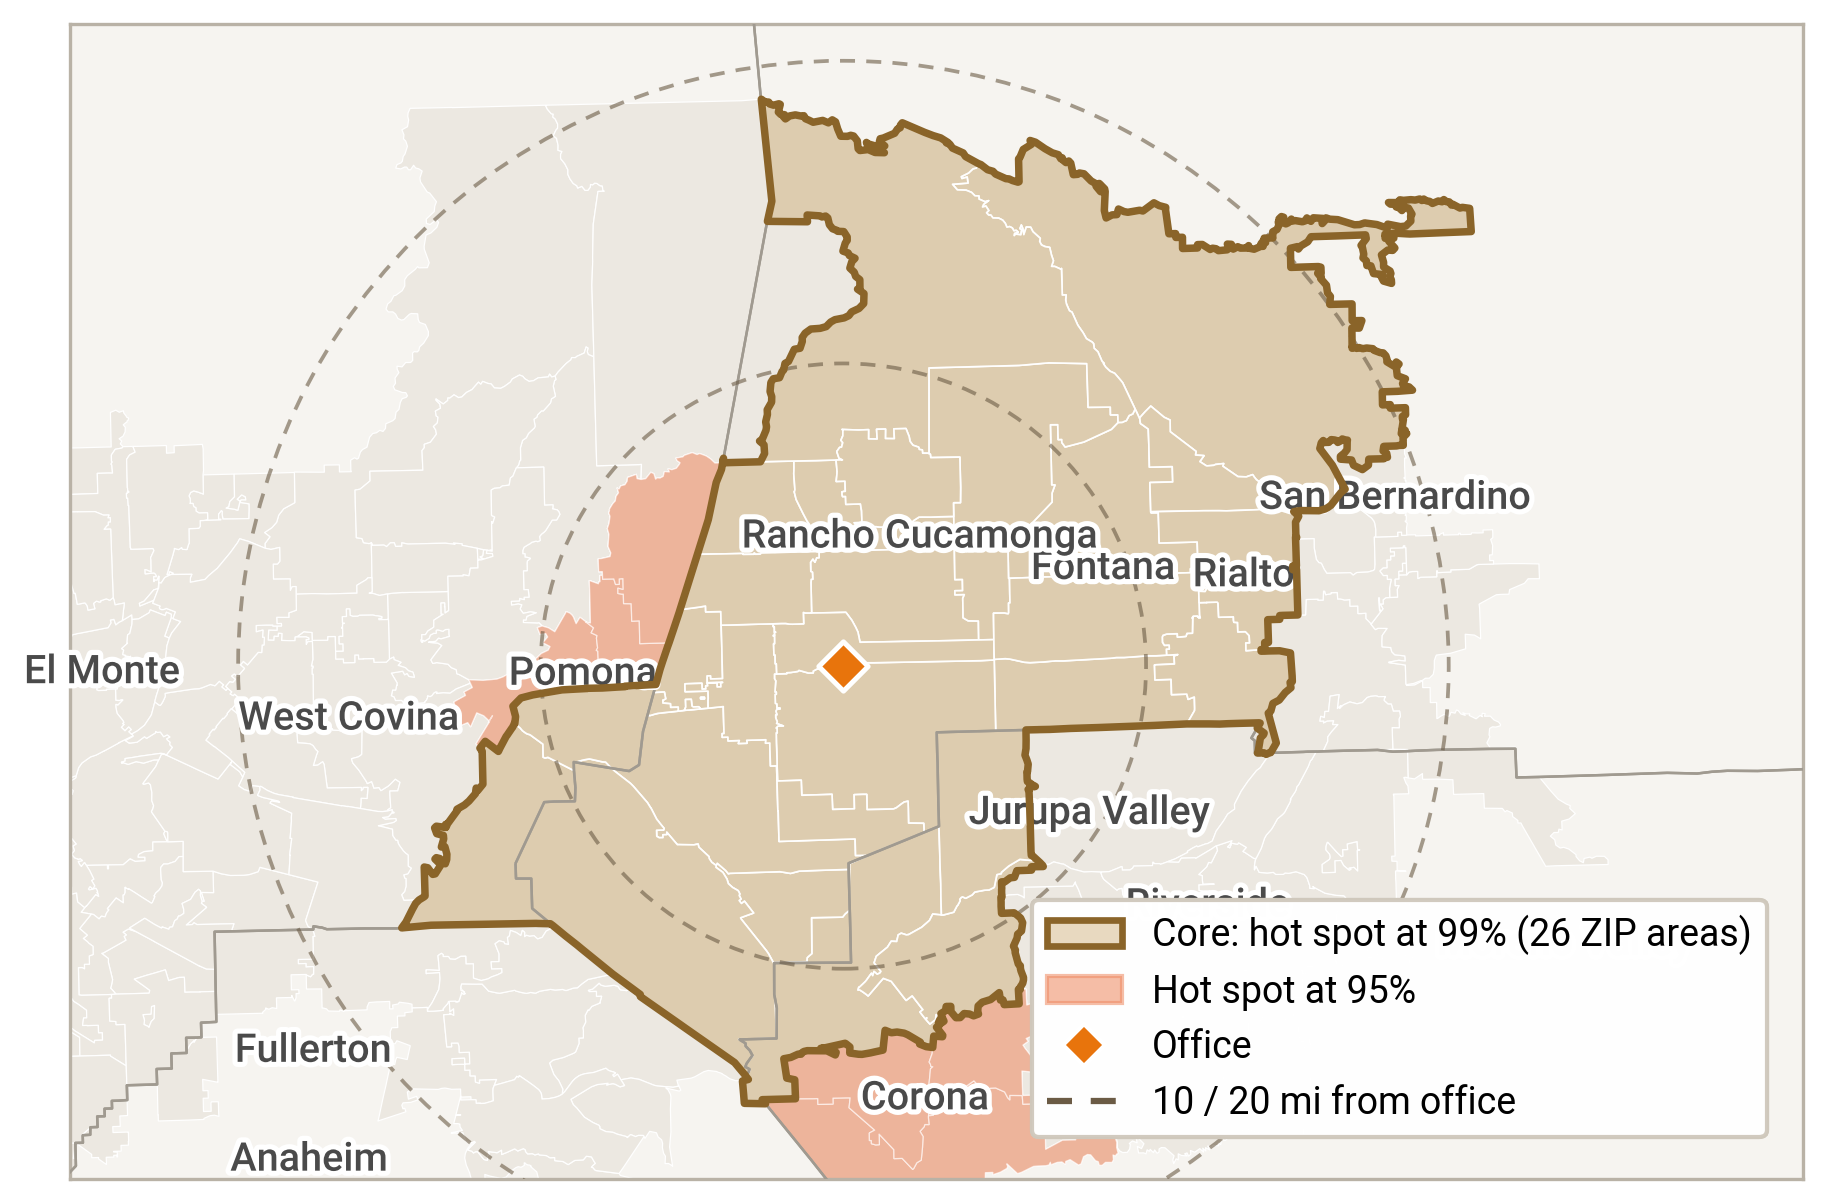
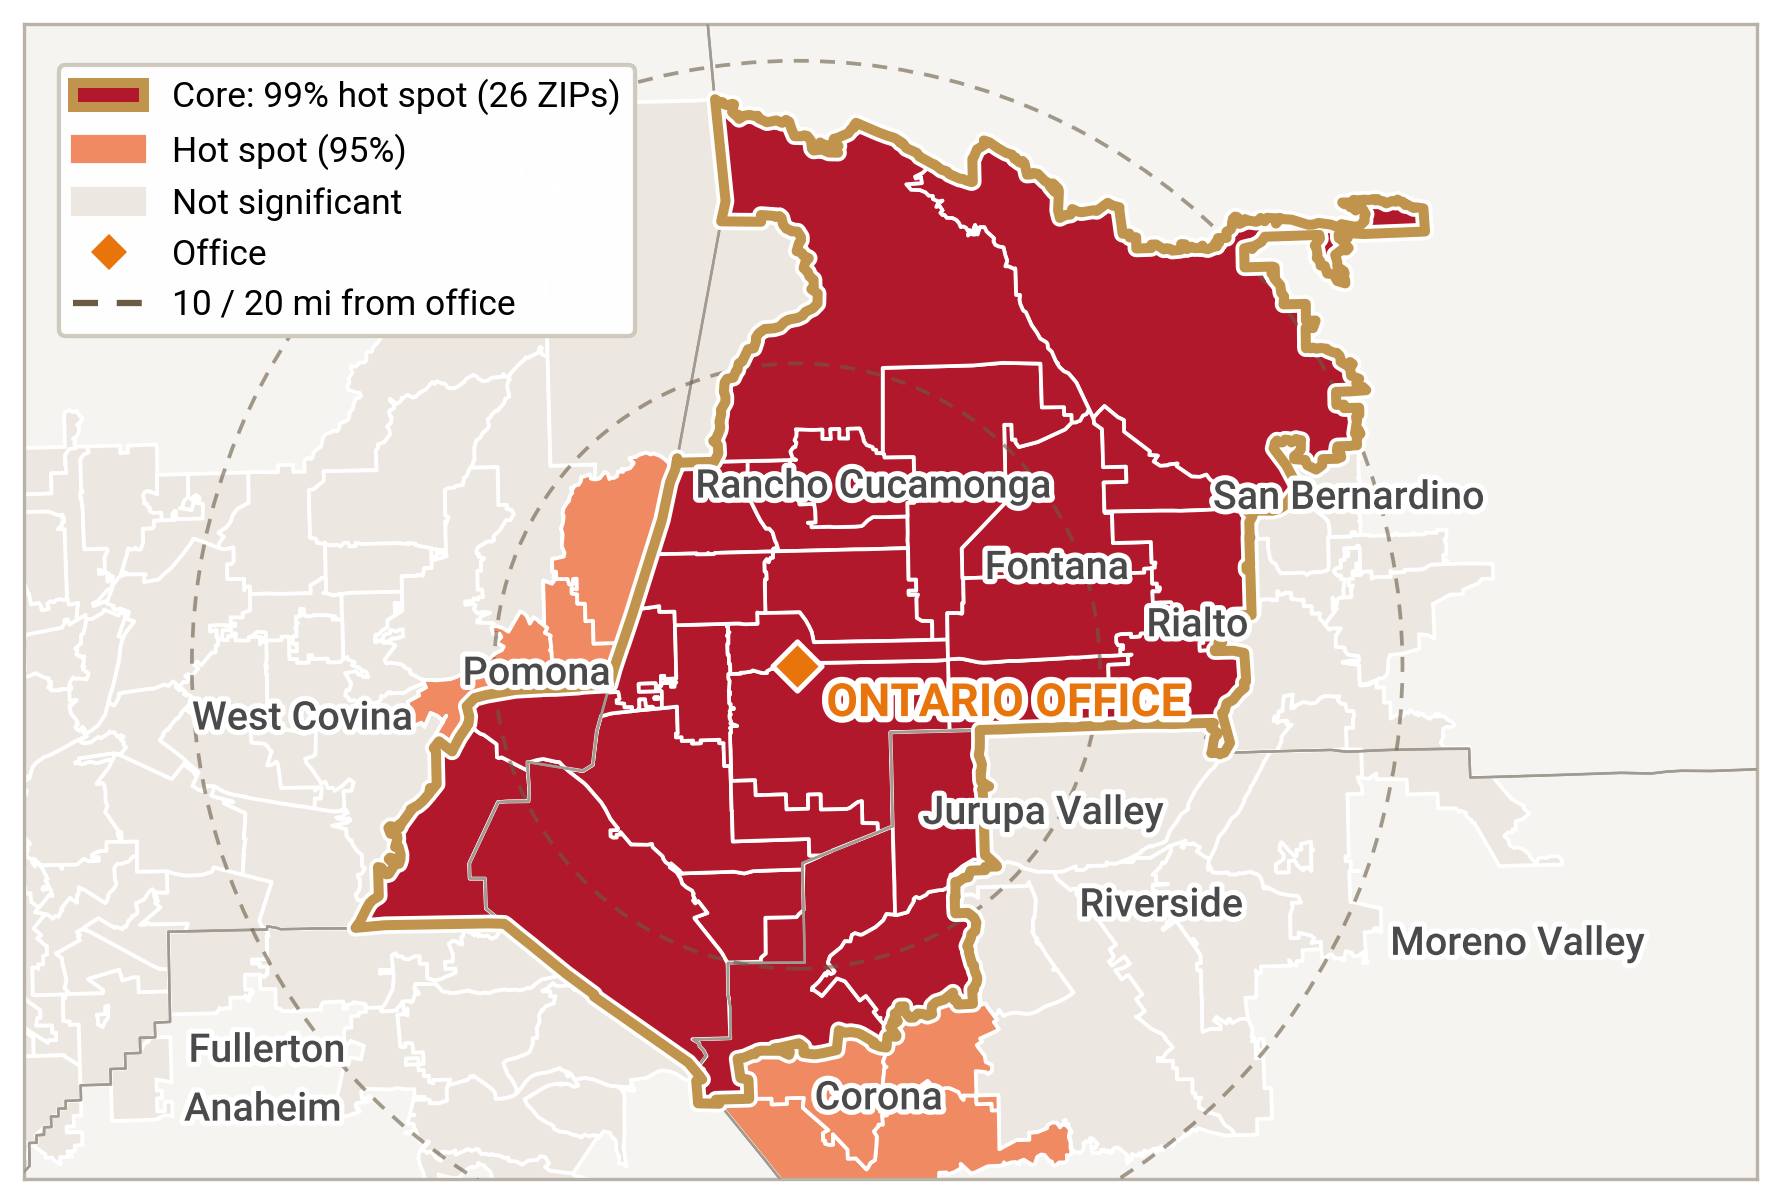
Update map images and HTML references for San Diego, Los Angeles, dormant clients, and Inland Empire

diff --git a/index.html b/index.html
@@ -827,7 +827,7 @@
     <h3 class="plan-group">Where to act</h3>
     <ol class="plan plan-maps">
       <li>
-        <img class="plan-map" src="data/maps/action_sd.png?v=20261021" data-zoom alt="San Diego target ZIP areas outlined in gold: City Heights, Chula Vista and Otay Mesa–Nestor, over ZIP areas shaded by the share of residents who speak Spanish at home, with the firm's 2 Spanish-speaking clients marked" />
+        <img class="plan-map" src="data/maps/action_sd.png?v=20261023" data-zoom alt="San Diego target ZIP areas outlined in gold: City Heights, Chula Vista and Otay Mesa–Nestor, over ZIP areas shaded by the share of residents who speak Spanish at home, with the firm's 2 Spanish-speaking clients marked" />
         <div class="plan-body">
           <h3>Bring Spanish-language outreach to San Diego</h3>
           <p class="plan-where">Chula Vista (91910, 91911), Otay Mesa–Nestor (92154), City Heights (92105)</p>
@@ -837,7 +837,7 @@
         </div>
       </li>
       <li>
-        <img class="plan-map" src="data/maps/action_la.png?v=20261021" data-zoom alt="Los Angeles target ZIP areas outlined in gold: Westwood, Palms, Koreatown, Los Feliz, Glassell Park and Highland Park, the top-10 missing-client ZIP areas within 10 miles of the office, over ZIP areas shaded by missing clients" />
+        <img class="plan-map" src="data/maps/action_la.png?v=20261023" data-zoom alt="Los Angeles target ZIP areas outlined in gold: Westwood, Palms, Koreatown, Los Feliz, Glassell Park and Highland Park, the top-10 missing-client ZIP areas within 10 miles of the office, over ZIP areas shaded by missing clients" />
         <div class="plan-body">
           <h3>Grow in Los Angeles neighborhoods within 10 miles</h3>
           <p class="plan-where">Koreatown, Hancock Park, Los Feliz, Highland Park, Glassell Park, Palms, Westwood</p>
@@ -847,7 +847,7 @@
         </div>
       </li>
       <li>
-        <img class="plan-map" src="data/maps/action_dormant.png?v=20261020" data-zoom alt="The 126 dormant lucrative clients within 10 miles of an office, by tier: 58 around Los Angeles, 57 around Ontario and 11 around San Diego" />
+        <img class="plan-map" src="data/maps/action_dormant.png?v=20261023" data-zoom alt="The 126 dormant lucrative clients within 10 miles of an office, by tier: 58 around Los Angeles, 57 around Ontario and 11 around San Diego" />
         <div class="plan-body">
           <h3>Turn past clients into referral sources</h3>
           <p class="plan-where">306 dormant lucrative clients, 126 of them within 10 miles of an office</p>
@@ -856,7 +856,7 @@
         </div>
       </li>
       <li>
-        <img class="plan-map" src="data/maps/action_ie.png?v=20261020" data-zoom alt="The Inland Empire core: 26 ZIP areas around the Ontario office that are hot spots of lucrative clients at 99% confidence" />
+        <img class="plan-map" src="data/maps/action_ie.png?v=20261024" data-zoom alt="The Inland Empire core: 26 ZIP areas around the Ontario office that are hot spots of lucrative clients at 99% confidence" />
         <div class="plan-body">
           <h3>Protect the Inland Empire core</h3>
           <p class="plan-where">Pomona, Ontario, Rancho Cucamonga, Fontana, Rialto, Chino</p>

diff --git a/analysis/build_story.py b/analysis/build_story.py
@@ -37,7 +37,8 @@ import matplotlib.patheffects
 import matplotlib.font_manager
 from matplotlib.colors import ListedColormap, BoundaryNorm
 from matplotlib.lines import Line2D
-from matplotlib.patches import Patch
+from matplotlib.patches import Patch, Rectangle
+from matplotlib.legend_handler import HandlerBase
 from pyproj import Transformer
 from shapely.geometry import Point
 
@@ -72,6 +73,7 @@ ACS_URL = f'https://www2.census.gov/programs-surveys/acs/summary_file/{ACS_YEAR}
 
 TIER_COLORS = {'Star': '#434b8b', 'High Value': '#cc586f', 'Efficient': '#368acc', 'Standard': '#9a9a9a'}
 OFFICE_COLOR = '#e8740c'
+HOT_COLORS = {'hot99': '#b2182b', 'hot95': '#ef8a62', 'ns': '#ece8e1', 'cold': '#67a9cf'}   # Exhibit 2.5
 OCEAN = '#dfe6ea'
 LAND = '#f6f4f0'
 FOREIGN = '#ebe8e2'                         # Mexico: land, but outside the study area
@@ -465,7 +467,9 @@ class Basemap:
         for s in ax.spines.values():
             s.set_edgecolor('#b9b2a6')
 
-    def overlay(self, ax, extent, labels=True, city_min_pop=150000, office_labels=True, fs=9, office_gap=13000):
+    def overlay(self, ax, extent, labels=True, city_min_pop=150000, office_labels=True, fs=9, office_gap=13000,
+                label_left=('San Diego',), declutter=False, label_z=7):
+        """declutter: drop any city label whose box would touch one already placed (office labels go first)."""
         self.counties.boundary.plot(ax=ax, color='#a09a90', linewidth=.6, zorder=4)
         x0, y0, x1, y1 = extent
         if self.mexico is not None and labels:
@@ -473,8 +477,29 @@ class Basemap:
             if x0 < mx < x1 and y0 < my < y1:
                 ax.text(mx, my, 'MEXICO', fontsize=fs, color='#9a948a', ha='center', va='center', zorder=7,
                         fontweight='medium')
+        self.offices.plot(ax=ax, marker='D', color=OFFICE_COLOR, markersize=70, edgecolor='white', linewidth=1.2, zorder=9)
+        boxes = []
+        rend = ax.figure.canvas.get_renderer() if declutter else None
+
+        def box(t, pad=3):
+            return t.get_window_extent(rend).expanded(1, 1).padded(pad)
+
+        if office_labels:
+            for _, o in self.offices.iterrows():
+                # San Diego sits on the coast near the frame edge: label it over the ocean instead
+                left = o.office in label_left
+                t = ax.annotate(o.office.upper() + ' OFFICE', (o.geometry.x, o.geometry.y),
+                                xytext=(-9 if left else 7, -12), ha='right' if left else 'left',
+                                textcoords='offset points', fontsize=fs, color=OFFICE_COLOR, fontweight='bold',
+                                zorder=max(9, label_z),
+                                path_effects=[matplotlib.patheffects.withStroke(linewidth=3, foreground='white')])
+                if declutter:
+                    boxes.append(box(t))
+        if declutter:
+            for _, o in self.offices.iterrows():   # keep the office marker itself clear
+                px, py = ax.transData.transform((o.geometry.x, o.geometry.y))
+                boxes.append(matplotlib.transforms.Bbox([[px - 12, py - 12], [px + 12, py + 12]]))
         if labels:
-            x0, y0, x1, y1 = extent
             placed = [(o.geometry.x, o.geometry.y) for _, o in self.offices.iterrows()]
             for _, cty in self.cities[self.cities.POP >= city_min_pop].sort_values('POP', ascending=False).iterrows():
                 p = cty.pt
@@ -482,20 +507,23 @@ class Basemap:
                     continue
                 if any(np.hypot(p.x - a, p.y - b) < office_gap for a, b in placed):
                     continue
+                ok = False
+                for dy in ((0, 12, -12) if declutter else (0,)):   # centred first, then just above or below
+                    t = ax.annotate(cty.NAME, (p.x, p.y), xytext=(0, dy), textcoords='offset points',
+                                    fontsize=fs - 1.5, color='#4a4a4a', ha='center', va='center',
+                                    zorder=label_z, fontweight='semibold',
+                                    path_effects=[matplotlib.patheffects.withStroke(linewidth=2.5, foreground='white')])
+                    if not declutter:
+                        ok = True; break
+                    b = box(t)
+                    axb = ax.get_window_extent(rend)
+                    if any(b.overlaps(o) for o in boxes) or b.x0 < axb.x0 or b.x1 > axb.x1 or b.y0 < axb.y0:
+                        t.remove()
+                        continue
+                    boxes.append(b); ok = True; break
+                if not ok:
+                    continue
                 placed.append((p.x, p.y))
-                if True:
-                    ax.annotate(cty.NAME, (p.x, p.y), fontsize=fs - 1.5, color='#4a4a4a', ha='center', va='center',
-                                zorder=7, fontweight='semibold',
-                                path_effects=[matplotlib.patheffects.withStroke(linewidth=2.5, foreground='white')])
-        self.offices.plot(ax=ax, marker='D', color=OFFICE_COLOR, markersize=70, edgecolor='white', linewidth=1.2, zorder=9)
-        if office_labels:
-            for _, o in self.offices.iterrows():
-                # San Diego sits on the coast near the frame edge: label it over the ocean instead
-                left = o.office == 'San Diego'
-                ax.annotate(o.office.upper() + ' OFFICE', (o.geometry.x, o.geometry.y), xytext=(-9 if left else 7, -12),
-                            ha='right' if left else 'left',
-                            textcoords='offset points', fontsize=fs, color=OFFICE_COLOR, fontweight='bold', zorder=9,
-                            path_effects=[matplotlib.patheffects.withStroke(linewidth=3, foreground='white')])
 
     @staticmethod
     def graticule(ax, step=0.5, labels=True, fs=8):
@@ -540,10 +568,26 @@ def map_title(ax, text, sub=None, fs=15):
         ax.text(0, 1.012, sub, transform=ax.transAxes, fontsize=fs * .66, color='#5c685f', va='bottom', ha='left')
 
 
+class Ramp(Patch):
+    """Legend entry for a stepped colour ramp: one swatch per class, drawn side by side."""
+    def __init__(self, colors, label):
+        super().__init__(label=label)
+        self.colors = colors
+
+
+class RampHandler(HandlerBase):
+    def create_artists(self, legend, orig, x0, y0, width, height, fontsize, trans):
+        w = width / len(orig.colors)
+        return [Rectangle((x0 + i * w, y0), w, height, facecolor=c, edgecolor='#8f877b', lw=.4, transform=trans)
+                for i, c in enumerate(orig.colors)]
+
+
 def legend_box(ax, handles, heading=None, loc='lower left', fs=9, ncol=1, anchor=(0.02, 0.03)):
     # default sits over the Pacific, clear of every market; heading is a short group name, never the map title
+    ramp = any(isinstance(h, Ramp) for h in handles)
     lg = ax.legend(handles=handles, title=heading, loc=loc, bbox_to_anchor=anchor, fontsize=fs, title_fontsize=fs + .5,
-                   frameon=True, framealpha=.95, edgecolor='#cfc8bc', ncol=ncol, alignment='left')
+                   frameon=True, framealpha=.95, edgecolor='#cfc8bc', ncol=ncol, alignment='left',
+                   handler_map={Ramp: RampHandler()}, handlelength=3.4 if ramp else 2.0)
     lg.set_zorder(20)
     ax.add_artist(lg)                        # keep it when a second (size) legend is added
     return lg
@@ -701,7 +745,7 @@ def draw_maps(offices, c, S, out):
     # 3. hot spots
     fig, ax = plt.subplots(figsize=(10, 10))
     bm.frame(ax, REGION)
-    hc = {'hot99': '#b2182b', 'hot95': '#ef8a62', 'ns': '#ece8e1', 'cold': '#67a9cf'}
+    hc = HOT_COLORS
     for k, col in hc.items():
         g = Sp[Sp.hot == k]
         if len(g):
@@ -842,9 +886,9 @@ def draw_action_maps(bm, Sp, cp):
     sd_names, la_names = ['Chula Vista', 'Otay Mesa-Nestor', 'City Heights'], \
         ['Koreatown', 'Los Feliz', 'Highland Park', 'Glassell Park', 'Palms', 'Westwood']
     # label nudges (points) so names clear each other and the office marker
-    nudge = {'Chula Vista': (20, 0), 'Otay Mesa-Nestor': (30, -16), 'City Heights': (60, 12),
-             'Koreatown': (0, -30), 'Los Feliz': (0, 40), 'Highland Park': (46, -18), 'Glassell Park': (34, 30),
-             'Palms': (-6, -26), 'Westwood': (-16, 30)}
+    nudge = {'Chula Vista': (20, 0), 'Otay Mesa-Nestor': (30, -16), 'City Heights': (0, 22),
+             'Koreatown': (0, -14), 'Los Feliz': (0, 40), 'Highland Park': (46, -18), 'Glassell Park': (34, 30),
+             'Palms': (-6, -26), 'Westwood': (-6, 18)}
 
     def targets(ax, names):
         t = tg[tg.Name.isin(names)]
@@ -871,14 +915,14 @@ def draw_action_maps(bm, Sp, cp):
     sbins, scols = [0, 15, 30, 45, 60, 101], ['#f3eef6', '#d6c6e4', '#b09bd0', '#8966d1', '#56379e']
     scm = ListedColormap(scols)
     Sp[Sp.office == 'San Diego'].plot(ax=ax, column='span_pct', cmap=scm, norm=BoundaryNorm(sbins, scm.N),
-                                      edgecolor='white', linewidth=.3, alpha=.75, zorder=2,
+                                      edgecolor='white', linewidth=.9, alpha=.75, zorder=2,
                                       missing_kwds={'color': '#ece8e1'})
     ring_set(ax, 'San Diego')
-    bm.overlay(ax, ext, labels=False, office_labels=False)
+    bm.overlay(ax, ext, labels=False, fs=9.5)
     targets(ax, sd_names)
     sc = cp[cp.spanish & (cp.office == 'San Diego') & (cp.dist <= STUDY_MILES)]
     sc.plot(ax=ax, color='#f2c14e', markersize=40, edgecolor='#5a4300', linewidth=.7, zorder=12)
-    h = [TARGET, Patch(color=scols[3], label='Speak Spanish at home: 45%+'),
+    h = [TARGET, Ramp(scols, 'Speak Spanish at home: <15% to 60%+'),
          Line2D([], [], marker='o', ls='', mfc='#f2c14e', mec='#5a4300', ms=7, label=f'Spanish-speaking client ({len(sc)})'),
          OFFICE, RING(RING_LABEL)]
     legend_box(ax, h, fs=8.5, anchor=(0.01, 0.02))
@@ -889,21 +933,21 @@ def draw_action_maps(bm, Sp, cp):
     ext = fit_32(list(t.geometry) + [off['Los Angeles'].buffer(3000)], pad_m=4500)
     fig, ax = plt.subplots(figsize=(7.5, 5))
     bm.frame(ax, ext)
-    Sp[Sp.office == 'Los Angeles'].plot(ax=ax, color='#ece8e1', edgecolor='white', linewidth=.3, zorder=1)
+    Sp[Sp.office == 'Los Angeles'].plot(ax=ax, color='#ece8e1', edgecolor='white', linewidth=.9, zorder=1)
     g = Sp[(Sp.office == 'Los Angeles') & (Sp.gap > 0)]
     ocols = ['#d4ecf1', '#8fcbdc', '#3f9dbd', '#1b6585']
     ocm = ListedColormap(ocols)
     g.plot(ax=ax, column='gap', cmap=ocm, norm=BoundaryNorm([0, 1, 2, 3, 1e9], ocm.N), edgecolor='white',
-           linewidth=.3, alpha=.8, zorder=2)
+           linewidth=.9, alpha=.8, zorder=2)
     ring_set(ax, 'Los Angeles')
-    bm.overlay(ax, ext, labels=False, office_labels=False)
+    bm.overlay(ax, ext, labels=False, fs=9.5)
     targets(ax, la_names)
     for _, v in Sp[Sp.opp_rank.notna() & (Sp.office == 'Los Angeles')].iterrows():
         p = v.geometry.representative_point()
         if ext[0] < p.x < ext[2] and ext[1] < p.y < ext[3]:
             ax.annotate(str(int(v.opp_rank)), (p.x, p.y), ha='center', va='center', fontsize=8, fontweight='bold',
                         color='white', zorder=13, bbox=dict(boxstyle='circle,pad=0.22', fc='#1a2d22', ec='white', lw=.8))
-    h = [TARGET, Patch(color=ocols[2], label='Missing clients: 2+'),
+    h = [TARGET, Ramp(ocols, 'Missing clients: <1 to 3+'),
          Line2D([], [], marker='o', ls='', mfc='#1a2d22', mec='white', ms=9, label='Top-10 target ZIP area'),
          OFFICE, RING(RING_LABEL)]
     legend_box(ax, h, fs=9, loc='lower right', anchor=(0.99, 0.02))
@@ -912,10 +956,12 @@ def draw_action_maps(bm, Sp, cp):
     # C. 126 dormant lucrative clients within 10 miles: LA + Ontario, San Diego as an inset
     d = cp[cp.luc & ((SNAPSHOT - cp['last']).dt.days > DORMANT_DAYS) & (cp.dist <= 10)]
     ten = 10 * 1609.34
-    ext = fit_32([off['Los Angeles'].buffer(ten), off['Ontario'].buffer(ten)], pad_m=2500)
+    la, on = off['Los Angeles'], off['Ontario']
+    ext = fit_32([la.buffer(ten), on.buffer(ten), Point(on.x, on.y + ten + 5000),   # room for the count labels
+                  Point(la.x - ten, min(la.y, on.y) - ten - 30000)], pad_m=2500)
     fig, ax = plt.subplots(figsize=(7.5, 5))
 
-    def dormant_layer(a, extent):
+    def dormant_layer(a, extent, fs=9, label_left=('San Diego',)):
         bm.frame(a, extent)
         Sp.boundary.plot(ax=a, color='#e2ddd4', linewidth=.3, zorder=1)
         for o in off:
@@ -925,17 +971,17 @@ def draw_action_maps(bm, Sp, cp):
             gg = d[d.tier == tier].sort_values('net_revenue', ascending=False)
             gg.plot(ax=a, color=TIER_COLORS[tier], markersize=dormant_size(gg.net_revenue), alpha=.85,
                     edgecolor='white', linewidth=.4, zorder=5)
-        bm.overlay(a, extent, labels=False, office_labels=False)
+        bm.overlay(a, extent, labels=False, fs=fs, label_left=label_left)
 
     dormant_layer(ax, ext)
     for name in ('Los Angeles', 'Ontario'):
         n = int((d.office == name).sum())
         o = off[name]
         thumb_label(ax, f'{name}: {n}', Point(o.x, o.y + ten + 2200), 0, 0, fs=11)   # just above the 10-mi ring
-    ins = ax.inset_axes([0.375, 0.52, 0.25, 0.45])   # the empty strip between the two rings
+    ins = ax.inset_axes([0.015, 0.02, 0.27, 0.40])   # bottom left: San Diego lies south of the other two
     sext = (off['San Diego'].x - ten * 1.25, off['San Diego'].y - ten * 1.25, off['San Diego'].x + ten * 1.25,
             off['San Diego'].y + ten * 1.25)
-    dormant_layer(ins, sext)
+    dormant_layer(ins, sext, fs=7, label_left=())   # inset edge is close on the left
     ins.text(.5, .94, f"San Diego: {int((d.office == 'San Diego').sum())}", transform=ins.transAxes, ha='center',
              va='top', fontsize=10, fontweight='bold', color='#3d2c10', zorder=14,
              path_effects=[matplotlib.patheffects.withStroke(linewidth=3, foreground='white')])
@@ -945,7 +991,7 @@ def draw_action_maps(bm, Sp, cp):
     h = [Line2D([], [], marker='o', ls='', color=TIER_COLORS[k], ms=8, label=f'{k} ({counts.get(k, 0)})')
          for k in ['Star', 'High Value', 'Efficient']]
     h += [Patch(facecolor=TARGET_FILL + '22', edgecolor=TARGET_EDGE, ls='--', label='Within 10 mi of an office'), OFFICE]
-    legend_box(ax, h, fs=8.5, loc='lower center', anchor=(0.5, 0.02), ncol=2)
+    legend_box(ax, h, fs=8.5, loc='lower right', anchor=(0.99, 0.02), ncol=2)
     save(fig, 'action_dormant.png')
 
     # D. Inland Empire core: the hot spots at 99% around Ontario
@@ -953,16 +999,18 @@ def draw_action_maps(bm, Sp, cp):
     ext = fit_32(list(core.geometry), pad_m=4000)
     fig, ax = plt.subplots(figsize=(7.5, 5))
     bm.frame(ax, ext)
-    Sp.plot(ax=ax, color='#ece8e1', edgecolor='white', linewidth=.3, zorder=1)
-    Sp[(Sp.office == 'Ontario') & (Sp.hot == 'hot95')].plot(ax=ax, color='#ef8a62', alpha=.55, edgecolor='white',
-                                                             linewidth=.3, zorder=2)
-    core.plot(ax=ax, facecolor=TARGET_FILL + '55', edgecolor='white', linewidth=.4, zorder=3)
-    gpd.GeoSeries([core.union_all()], crs=3310).boundary.plot(ax=ax, color=TARGET_EDGE, linewidth=1.8, zorder=8)
+    Sp.plot(ax=ax, color=HOT_COLORS['ns'], edgecolor='white', linewidth=.9, zorder=1)
+    for k in ('cold', 'hot95', 'hot99'):
+        Sp[Sp.hot == k].plot(ax=ax, color=HOT_COLORS[k], edgecolor='white', linewidth=.9, zorder=2)
+    edge = gpd.GeoSeries([core.union_all()], crs=3310).boundary
+    edge.plot(ax=ax, color='white', linewidth=4.2, zorder=8)      # same gold outline as the other target maps
+    edge.plot(ax=ax, color=TARGET_FILL, linewidth=2.4, zorder=8)
     ring_set(ax, 'Ontario')
-    bm.overlay(ax, ext, labels=True, city_min_pop=60000, office_labels=False, fs=11, office_gap=4000)
-    h = [Patch(facecolor=TARGET_FILL + '55', edgecolor=TARGET_EDGE, lw=1.6, label=f'Core: hot spot at 99% ({len(core)} ZIP areas)'),
-         Patch(color='#ef8a62', alpha=.55, label='Hot spot at 95%'), OFFICE, RING(RING_LABEL)]
-    legend_box(ax, h, fs=9, loc='lower right', anchor=(0.99, 0.02))
+    bm.overlay(ax, ext, labels=True, city_min_pop=60000, fs=11, office_gap=4000, declutter=True, label_z=15)
+    h = [Patch(facecolor=HOT_COLORS['hot99'], edgecolor=TARGET_FILL, lw=2.4, label=f'Core: 99% hot spot ({len(core)} ZIPs)'),
+         Patch(color=HOT_COLORS['hot95'], label='Hot spot (95%)'), Patch(color=HOT_COLORS['ns'], label='Not significant'),
+         OFFICE, RING(RING_LABEL)]       # no cold spots in this frame
+    legend_box(ax, h, fs=8.5, loc='upper left', anchor=(0.01, 0.98))   # the open ground north-west of the core
     save(fig, 'action_ie.png')
 
 
